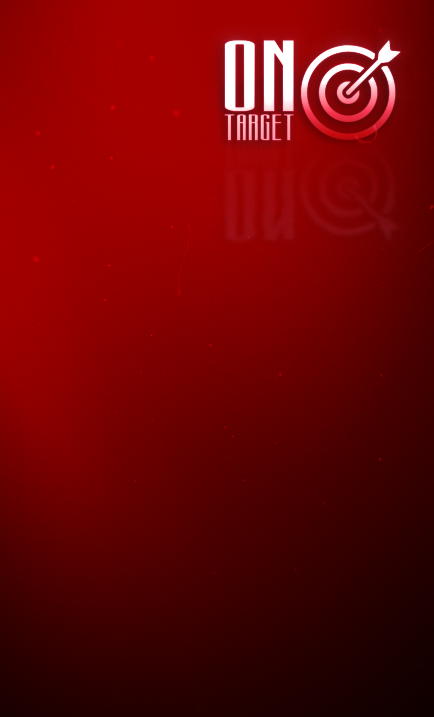
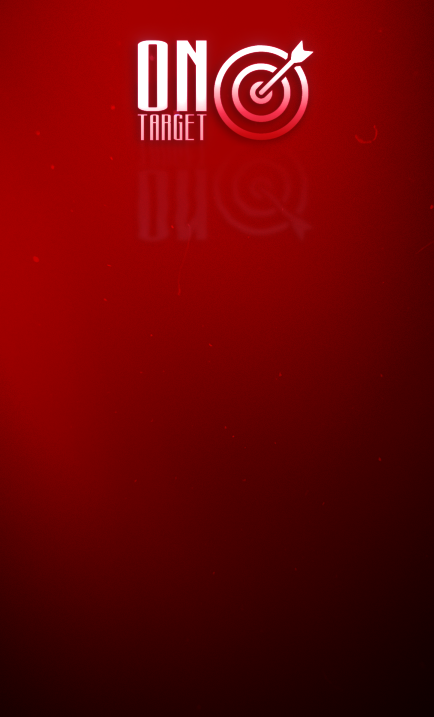
Responsivity v2

Changed region(s): [[0.2995, 0.0307, 0.9286, 0.2148]]

diff --git a/styles.css b/styles.css
@@ -118,6 +118,9 @@ li a {
     width: 100%;
     height: auto;
   }
+  .centro h1 {
+    display: none;
+  }
   .centro p {
     width: 24rem;
   }
